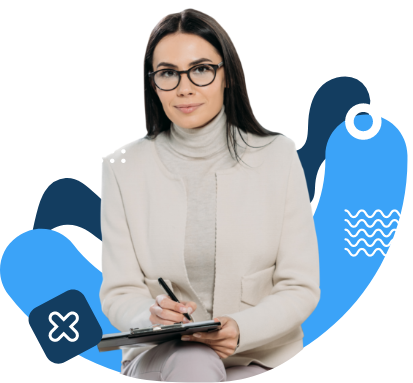
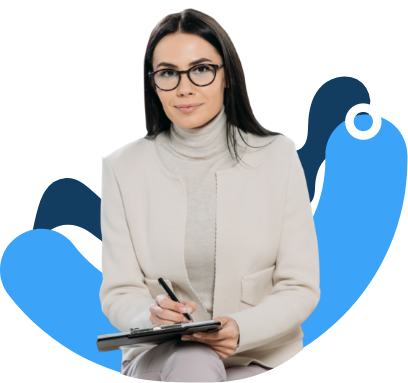
Correcciones 4
Se aplica animación a banner principal.

diff --git a/src/styles/_custom.sass b/src/styles/_custom.sass
@@ -178,6 +178,35 @@ table caption
   left: 95%
   top: 67px
 
+.banner-principal__img
+  background-image: url("../assets/curso/portada/float3.svg"), url("../assets/curso/portada/float2.svg"), url("../assets/curso/portada/float1.svg"), url("../assets/curso/portada/banner-princiapal.png")
+  align-self: stretch
+  background-repeat: no-repeat, no-repeat, no-repeat, no-repeat
+  background-position: 17% 85%, 90% 62%, 22% 40%, 50% 50%
+  background-size: 15%, 15%, 15%, 90%
+  animation: Flitp 6s ease infinite
+  img
+    display: none !important
+
+@media only screen and (max-width: 1199px)
+  .banner-principal .tarjeta
+    background-size: auto
+    background-position: 0
+    background-repeat: no-repeat
+
+@keyframes Flitp
+  0%
+    background-image: url("../assets/curso/portada/float3.svg"), url("../assets/curso/portada/float2.svg"), url("../assets/curso/portada/float1.svg"), url("../assets/curso/portada/banner-princiapal.png")
+  25%
+    background-image: url("../assets/curso/portada/float3.svg"), url("../assets/curso/portada/float2.svg"), url("../assets/curso/portada/float1.svg"), url("../assets/curso/portada/banner-princiapal.png")
+  50%
+    background-image: url("../assets/curso/portada/float3.svg"), url("../assets/curso/portada/float2.svg"), url("../assets/curso/portada/float1.svg"), url("../assets/curso/portada/banner-princiapal.png")
+    background-position: 30% 85%, 90% 40%, 22% 20%, 20% 50%
+  75%
+    background-image: url("../assets/curso/portada/float3.svg"), url("../assets/curso/portada/float2.svg"), url("../assets/curso/portada/float1.svg"), url("../assets/curso/portada/banner-princiapal.png")
+  100%
+    background-image: url("../assets/curso/portada/float3.svg"), url("../assets/curso/portada/float2.svg"), url("../assets/curso/portada/float1.svg"), url("../assets/curso/portada/banner-princiapal.png")
+
 @media screen and ( max-width: 1400px )
 
   .bg-color11
@@ -188,6 +217,9 @@ table caption
   .bg-color11
     width: 570px
 
+  .banner-principal__img
+    width: 380px
+
 @media screen and ( max-width: 992px )
 
   .bg-color11
@@ -196,4 +228,4 @@ table caption
     width: auto
 
   .img-deco1
-    display: none 
+    display: none
